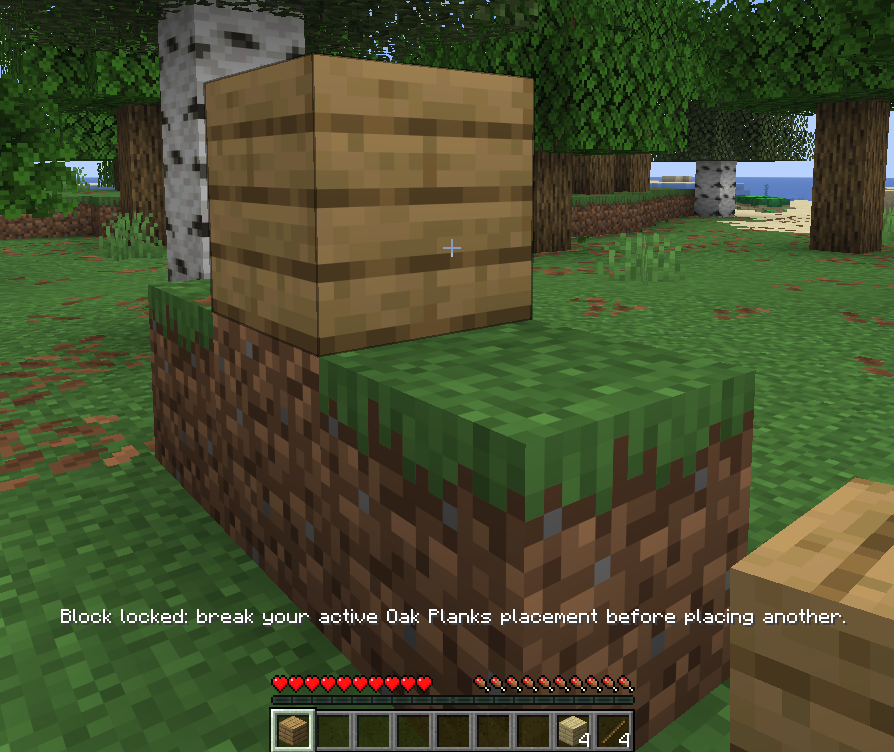
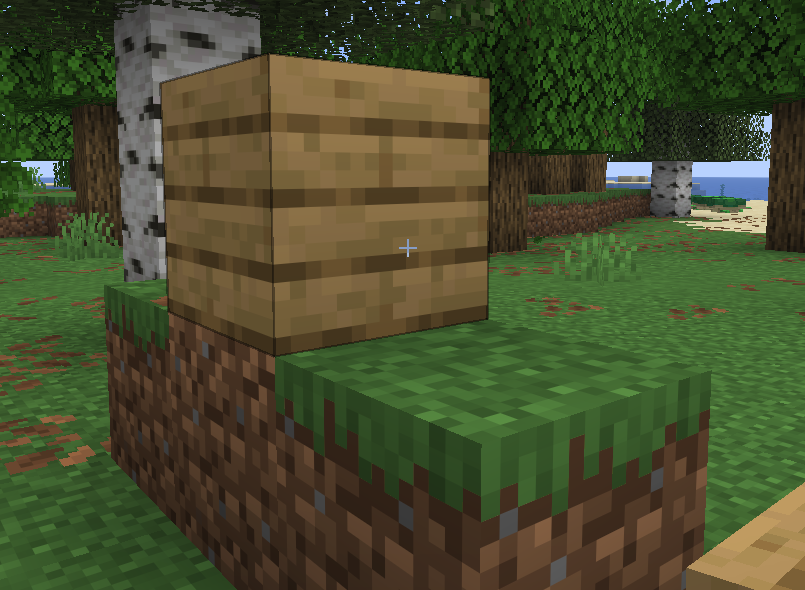
Add final settings and branding

diff --git a/src/main/java/com/craftblocklock/client/config/CraftBlockLockExceptionsScreen.java b/src/main/java/com/craftblocklock/client/config/CraftBlockLockExceptionsScreen.java
@@ -1,0 +1,169 @@
+package com.craftblocklock.client.config;
+
+import net.minecraft.ChatFormatting;
+import net.minecraft.client.gui.GuiGraphicsExtractor;
+import net.minecraft.client.gui.components.Button;
+import net.minecraft.client.gui.components.EditBox;
+import net.minecraft.client.gui.screens.Screen;
+import net.minecraft.core.registries.BuiltInRegistries;
+import net.minecraft.network.chat.CommonComponents;
+import net.minecraft.network.chat.Component;
+import net.minecraft.resources.Identifier;
+import net.minecraft.world.item.BlockItem;
+
+import java.util.List;
+
+public final class CraftBlockLockExceptionsScreen extends Screen {
+    private static final int CONTENT_WIDTH = 320;
+    private static final int BUTTON_HEIGHT = 20;
+    private static final int ROW_HEIGHT = 22;
+
+    private final Screen parent;
+    private final boolean recipes;
+    private final List<String> exceptions;
+    private EditBox idInput;
+    private String inputValue = "";
+    private Component status = Component.empty();
+    private int page;
+    private int rowsPerPage;
+
+    public CraftBlockLockExceptionsScreen(Screen parent, boolean recipes, List<String> exceptions) {
+        super(Component.literal((recipes ? "Recipe" : "Block") + " Exceptions"));
+        this.parent = parent;
+        this.recipes = recipes;
+        this.exceptions = exceptions;
+    }
+
+    @Override
+    protected void init() {
+        int x = (this.width - CONTENT_WIDTH) / 2;
+        int inputY = 48;
+        int addWidth = 56;
+
+        this.idInput = this.addRenderableWidget(new EditBox(
+            this.font,
+            x,
+            inputY,
+            CONTENT_WIDTH - addWidth - 4,
+            BUTTON_HEIGHT,
+            Component.literal((this.recipes ? "Recipe" : "Block") + " ID")
+        ));
+        this.idInput.setMaxLength(256);
+        this.idInput.setHint(Component.literal("minecraft:" + (this.recipes ? "recipe_id" : "block_id")));
+        this.idInput.setValue(this.inputValue);
+        this.idInput.setResponder(value -> this.inputValue = value);
+
+        this.addRenderableWidget(Button.builder(Component.literal("Add"), button -> this.addException())
+            .pos(x + CONTENT_WIDTH - addWidth, inputY).size(addWidth, BUTTON_HEIGHT).build());
+
+        this.rowsPerPage = Math.max(1, (this.height - 150) / ROW_HEIGHT);
+        int totalPages = this.totalPages();
+        this.page = Math.min(this.page, totalPages - 1);
+        int start = this.page * this.rowsPerPage;
+        int end = Math.min(start + this.rowsPerPage, this.exceptions.size());
+        int rowY = 80;
+
+        for (int index = start; index < end; index++) {
+            String exception = this.exceptions.get(index);
+            this.addRenderableWidget(Button.builder(Component.literal("Remove"), button -> this.removeException(exception))
+                .pos(x + CONTENT_WIDTH - 62, rowY).size(62, BUTTON_HEIGHT).build());
+            rowY += ROW_HEIGHT;
+        }
+
+        int footerY = this.height - 28;
+        Button previous = this.addRenderableWidget(Button.builder(Component.literal("<"), button -> {
+            this.page--;
+            this.rebuildWidgets();
+        }).pos(x, footerY).size(34, BUTTON_HEIGHT).build());
+        previous.active = this.page > 0;
+
+        Button next = this.addRenderableWidget(Button.builder(Component.literal(">"), button -> {
+            this.page++;
+            this.rebuildWidgets();
+        }).pos(x + 38, footerY).size(34, BUTTON_HEIGHT).build());
+        next.active = this.page + 1 < totalPages;
+
+        this.addRenderableWidget(Button.builder(CommonComponents.GUI_DONE, button -> this.onClose())
+            .pos(x + CONTENT_WIDTH - 100, footerY).size(100, BUTTON_HEIGHT).build());
+    }
+
+    @Override
+    public void extractRenderState(GuiGraphicsExtractor graphics, int mouseX, int mouseY, float delta) {
+        super.extractRenderState(graphics, mouseX, mouseY, delta);
+        int x = (this.width - CONTENT_WIDTH) / 2;
+        graphics.centeredText(this.font, this.title, this.width / 2, 14, 0xFFFFFFFF);
+        graphics.centeredText(
+            this.font,
+            Component.literal("Exceptions stay unlimited and do not create locks."),
+            this.width / 2,
+            30,
+            0xFFAAAAAA
+        );
+
+        int start = this.page * this.rowsPerPage;
+        int end = Math.min(start + this.rowsPerPage, this.exceptions.size());
+        int rowY = 86;
+        for (String exception : this.exceptions.subList(start, end)) {
+            graphics.text(this.font, this.font.plainSubstrByWidth(exception, CONTENT_WIDTH - 70), x + 4, rowY, 0xFFFFFFFF);
+            rowY += ROW_HEIGHT;
+        }
+
+        if (this.exceptions.isEmpty()) {
+            graphics.centeredText(this.font, Component.literal("No exceptions"), this.width / 2, 94, 0xFFAAAAAA);
+        }
+
+        if (!this.status.getString().isEmpty()) {
+            graphics.centeredText(this.font, this.status, this.width / 2, this.height - 48, 0xFFFFFFFF);
+        }
+
+        graphics.centeredText(
+            this.font,
+            Component.literal("Page " + (this.page + 1) + "/" + this.totalPages()),
+            this.width / 2,
+            this.height - 22,
+            0xFFAAAAAA
+        );
+    }
+
+    @Override
+    public void onClose() {
+        this.minecraft.gui.setScreen(this.parent);
+    }
+
+    private void addException() {
+        String value = this.inputValue.trim();
+        Identifier id = Identifier.tryParse(value);
+        if (id == null) {
+            this.status = Component.literal("Enter a valid namespaced ID.").withStyle(ChatFormatting.RED);
+            return;
+        }
+
+        String normalized = id.toString();
+        if (!this.recipes && (!BuiltInRegistries.ITEM.containsKey(id)
+            || !(BuiltInRegistries.ITEM.getValue(id) instanceof BlockItem))) {
+            this.status = Component.literal("That ID is not a registered block item.").withStyle(ChatFormatting.RED);
+            return;
+        }
+        if (this.exceptions.contains(normalized)) {
+            this.status = Component.literal("That exception is already listed.").withStyle(ChatFormatting.YELLOW);
+            return;
+        }
+
+        this.exceptions.add(normalized);
+        this.exceptions.sort(String::compareTo);
+        this.page = Math.max(0, (this.exceptions.indexOf(normalized)) / Math.max(1, this.rowsPerPage));
+        this.inputValue = "";
+        this.status = Component.literal("Added " + normalized).withStyle(ChatFormatting.GREEN);
+        this.rebuildWidgets();
+    }
+
+    private void removeException(String exception) {
+        this.exceptions.remove(exception);
+        this.status = Component.literal("Removed " + exception).withStyle(ChatFormatting.GREEN);
+        this.rebuildWidgets();
+    }
+
+    private int totalPages() {
+        return Math.max(1, (this.exceptions.size() + Math.max(1, this.rowsPerPage) - 1) / Math.max(1, this.rowsPerPage));
+    }
+}

diff --git a/src/main/java/com/craftblocklock/client/config/CraftBlockLockConfigScreen.java b/src/main/java/com/craftblocklock/client/config/CraftBlockLockConfigScreen.java
@@ -10,6 +10,9 @@ import net.minecraft.network.chat.CommonComponents;
 import net.minecraft.network.chat.Component;
 import net.minecraft.server.MinecraftServer;
 
+import java.util.ArrayList;
+import java.util.List;
+
 public final class CraftBlockLockConfigScreen extends Screen {
     private static final int BUTTON_WIDTH = 240;
     private static final int BUTTON_HEIGHT = 20;
@@ -21,6 +24,8 @@ public final class CraftBlockLockConfigScreen extends Screen {
     private boolean messagesEnabled;
     private boolean denialSoundsEnabled;
     private boolean lockedRecipeVisualsEnabled;
+    private final List<String> recipeExceptions;
+    private final List<String> blockExceptions;
 
     public CraftBlockLockConfigScreen(Screen parent) {
         super(Component.literal("Craft & Block Lock Settings"));
@@ -33,6 +38,8 @@ public final class CraftBlockLockConfigScreen extends Screen {
         this.messagesEnabled = config.messagesEnabled;
         this.denialSoundsEnabled = config.denialSoundsEnabled;
         this.lockedRecipeVisualsEnabled = config.lockedRecipeVisualsEnabled;
+        this.recipeExceptions = new ArrayList<>(config.recipeExceptions);
+        this.blockExceptions = new ArrayList<>(config.blockExceptions);
     }
 
     @Override
@@ -75,6 +82,14 @@ public final class CraftBlockLockConfigScreen extends Screen {
             button.setMessage(toggleText("Locked recipe visuals", this.lockedRecipeVisualsEnabled));
         }).pos(x, y).size(BUTTON_WIDTH, BUTTON_HEIGHT).build());
 
+        y += 24;
+        this.addRenderableWidget(Button.builder(exceptionText("Recipe exceptions", this.recipeExceptions), button ->
+            this.minecraft.gui.setScreen(new CraftBlockLockExceptionsScreen(this, true, this.recipeExceptions))
+        ).pos(x, y).size((BUTTON_WIDTH - 4) / 2, BUTTON_HEIGHT).build());
+        this.addRenderableWidget(Button.builder(exceptionText("Block exceptions", this.blockExceptions), button ->
+            this.minecraft.gui.setScreen(new CraftBlockLockExceptionsScreen(this, false, this.blockExceptions))
+        ).pos(x + (BUTTON_WIDTH + 4) / 2, y).size((BUTTON_WIDTH - 4) / 2, BUTTON_HEIGHT).build());
+
         int bottomY = this.height - 28;
         this.addRenderableWidget(Button.builder(CommonComponents.GUI_CANCEL, button -> this.onClose())
             .pos(this.width / 2 - 154, bottomY).size(150, BUTTON_HEIGHT).build());
@@ -108,6 +123,8 @@ public final class CraftBlockLockConfigScreen extends Screen {
         config.messagesEnabled = this.messagesEnabled;
         config.denialSoundsEnabled = this.denialSoundsEnabled;
         config.lockedRecipeVisualsEnabled = this.lockedRecipeVisualsEnabled;
+        config.recipeExceptions = new ArrayList<>(this.recipeExceptions);
+        config.blockExceptions = new ArrayList<>(this.blockExceptions);
         config.save();
 
         MinecraftServer server = this.minecraft.getSingleplayerServer();
@@ -119,5 +136,9 @@ public final class CraftBlockLockConfigScreen extends Screen {
 
     private static Component toggleText(String label, boolean enabled) {
         return Component.literal(label + ": " + (enabled ? "ON" : "OFF"));
+    }
+
+    private static Component exceptionText(String label, List<String> exceptions) {
+        return Component.literal(label + " (" + exceptions.size() + ")");
     }
 }

diff --git a/src/main/java/com/craftblocklock/lock/LockManager.java b/src/main/java/com/craftblocklock/lock/LockManager.java
@@ -149,9 +149,7 @@ public final class LockManager {
 
     public static void showBlockLocked(ServerPlayer player, ItemStack blockItem) {
         if (CraftBlockLock.CONFIG.messagesEnabled) {
-            player.sendOverlayMessage(
-                Component.literal("Block locked: break your active " + blockItem.getHoverName().getString() + " placement before placing another.")
-            );
+            player.sendOverlayMessage(Component.literal("Block locked: you have already placed one somewhere."));
         }
         if (CraftBlockLock.CONFIG.denialSoundsEnabled) {
             sendDenialSound(player, SoundEvents.NOTE_BLOCK_BASS, 0.7F, 0.6F);

diff --git a/src/main/java/com/craftblocklock/client/ClientFeedback.java b/src/main/java/com/craftblocklock/client/ClientFeedback.java
@@ -18,10 +18,7 @@ public final class ClientFeedback {
 
     public static void showBlockLocked(Player player, ItemStack blockItem) {
         if (ClientLockState.messagesEnabled()) {
-            player.sendOverlayMessage(
-                Component.literal("Block locked: break your active " + blockItem.getHoverName().getString()
-                    + " placement before placing another.")
-            );
+            player.sendOverlayMessage(Component.literal("Block locked: you have already placed one somewhere."));
         }
         playSound(player);
     }

diff --git a/README.md b/README.md
@@ -15,11 +15,11 @@ Each player can craft every recipe once. The optional block rule also allows onl
 - Locked recipes marked in the recipe book and result slot
 - Server-side checks with client-side prediction blocking
 - Messages, sounds, visuals, exceptions and resets are configurable
-- Optional Mod Menu settings screen
+- Optional Mod Menu settings screen with recipe and block exception management
 
 ## Screenshots
 
-| Locked recipe visuals | Block placement feedback |
+| Locked recipe visuals | Active block limit |
 |---|---|
 | ![Locked recipes in the recipe book](assets/screenshots/locked-recipes.png) | ![Locked block placement message](assets/screenshots/locked-block.png) |
 
@@ -68,7 +68,7 @@ Anvils, enchanting tables, grindstones, looms and cartography tables remain free
 4. Install the mod on the server and all connecting clients for multiplayer.
 5. Start Minecraft with Java 25.
 
-[Mod Menu](https://modrinth.com/mod/modmenu) 20.0.0 or newer is optional. It provides a settings screen for local and single-player configuration. Dedicated multiplayer server settings remain controlled by operator commands.
+[Mod Menu](https://modrinth.com/mod/modmenu) 20.0.0 or newer is optional. It provides a settings screen for local and single-player configuration, including recipe and block exceptions. Dedicated multiplayer server settings remain controlled by operator commands.
 
 ## Commands
 
@@ -134,3 +134,7 @@ The installable JAR is written to `build/libs/`.
 ## License
 
 Craft & Block Lock is available under the MIT License.
+
+<img src="assets/passo-logo.png" width="48" alt="Passo logo">
+
+Created by passo.

diff --git a/CHANGELOG.md b/CHANGELOG.md
@@ -7,11 +7,14 @@
 - A 128 by 128 mod icon for Mod Menu and launchers that display Fabric metadata icons.
 - `/cbl blocks list [page]` for viewing your own active block locks.
 - `/cbl recipes list [page]` for viewing your own locked recipe IDs.
+- Recipe and block exception management in the Mod Menu settings screen.
 - Recipe and block screenshots in the README.
 
 ### Changed
 
 - Locked recipe buttons now play only the denial sound instead of the normal click and denial sounds together.
+- Block-lock feedback now uses a shorter message.
+- The displayed author name is now passo.
 - The README is shorter, clearer and includes the current multiplayer testing status.
 
 ## 1.0.0-rc.1 - 2026-08-03
